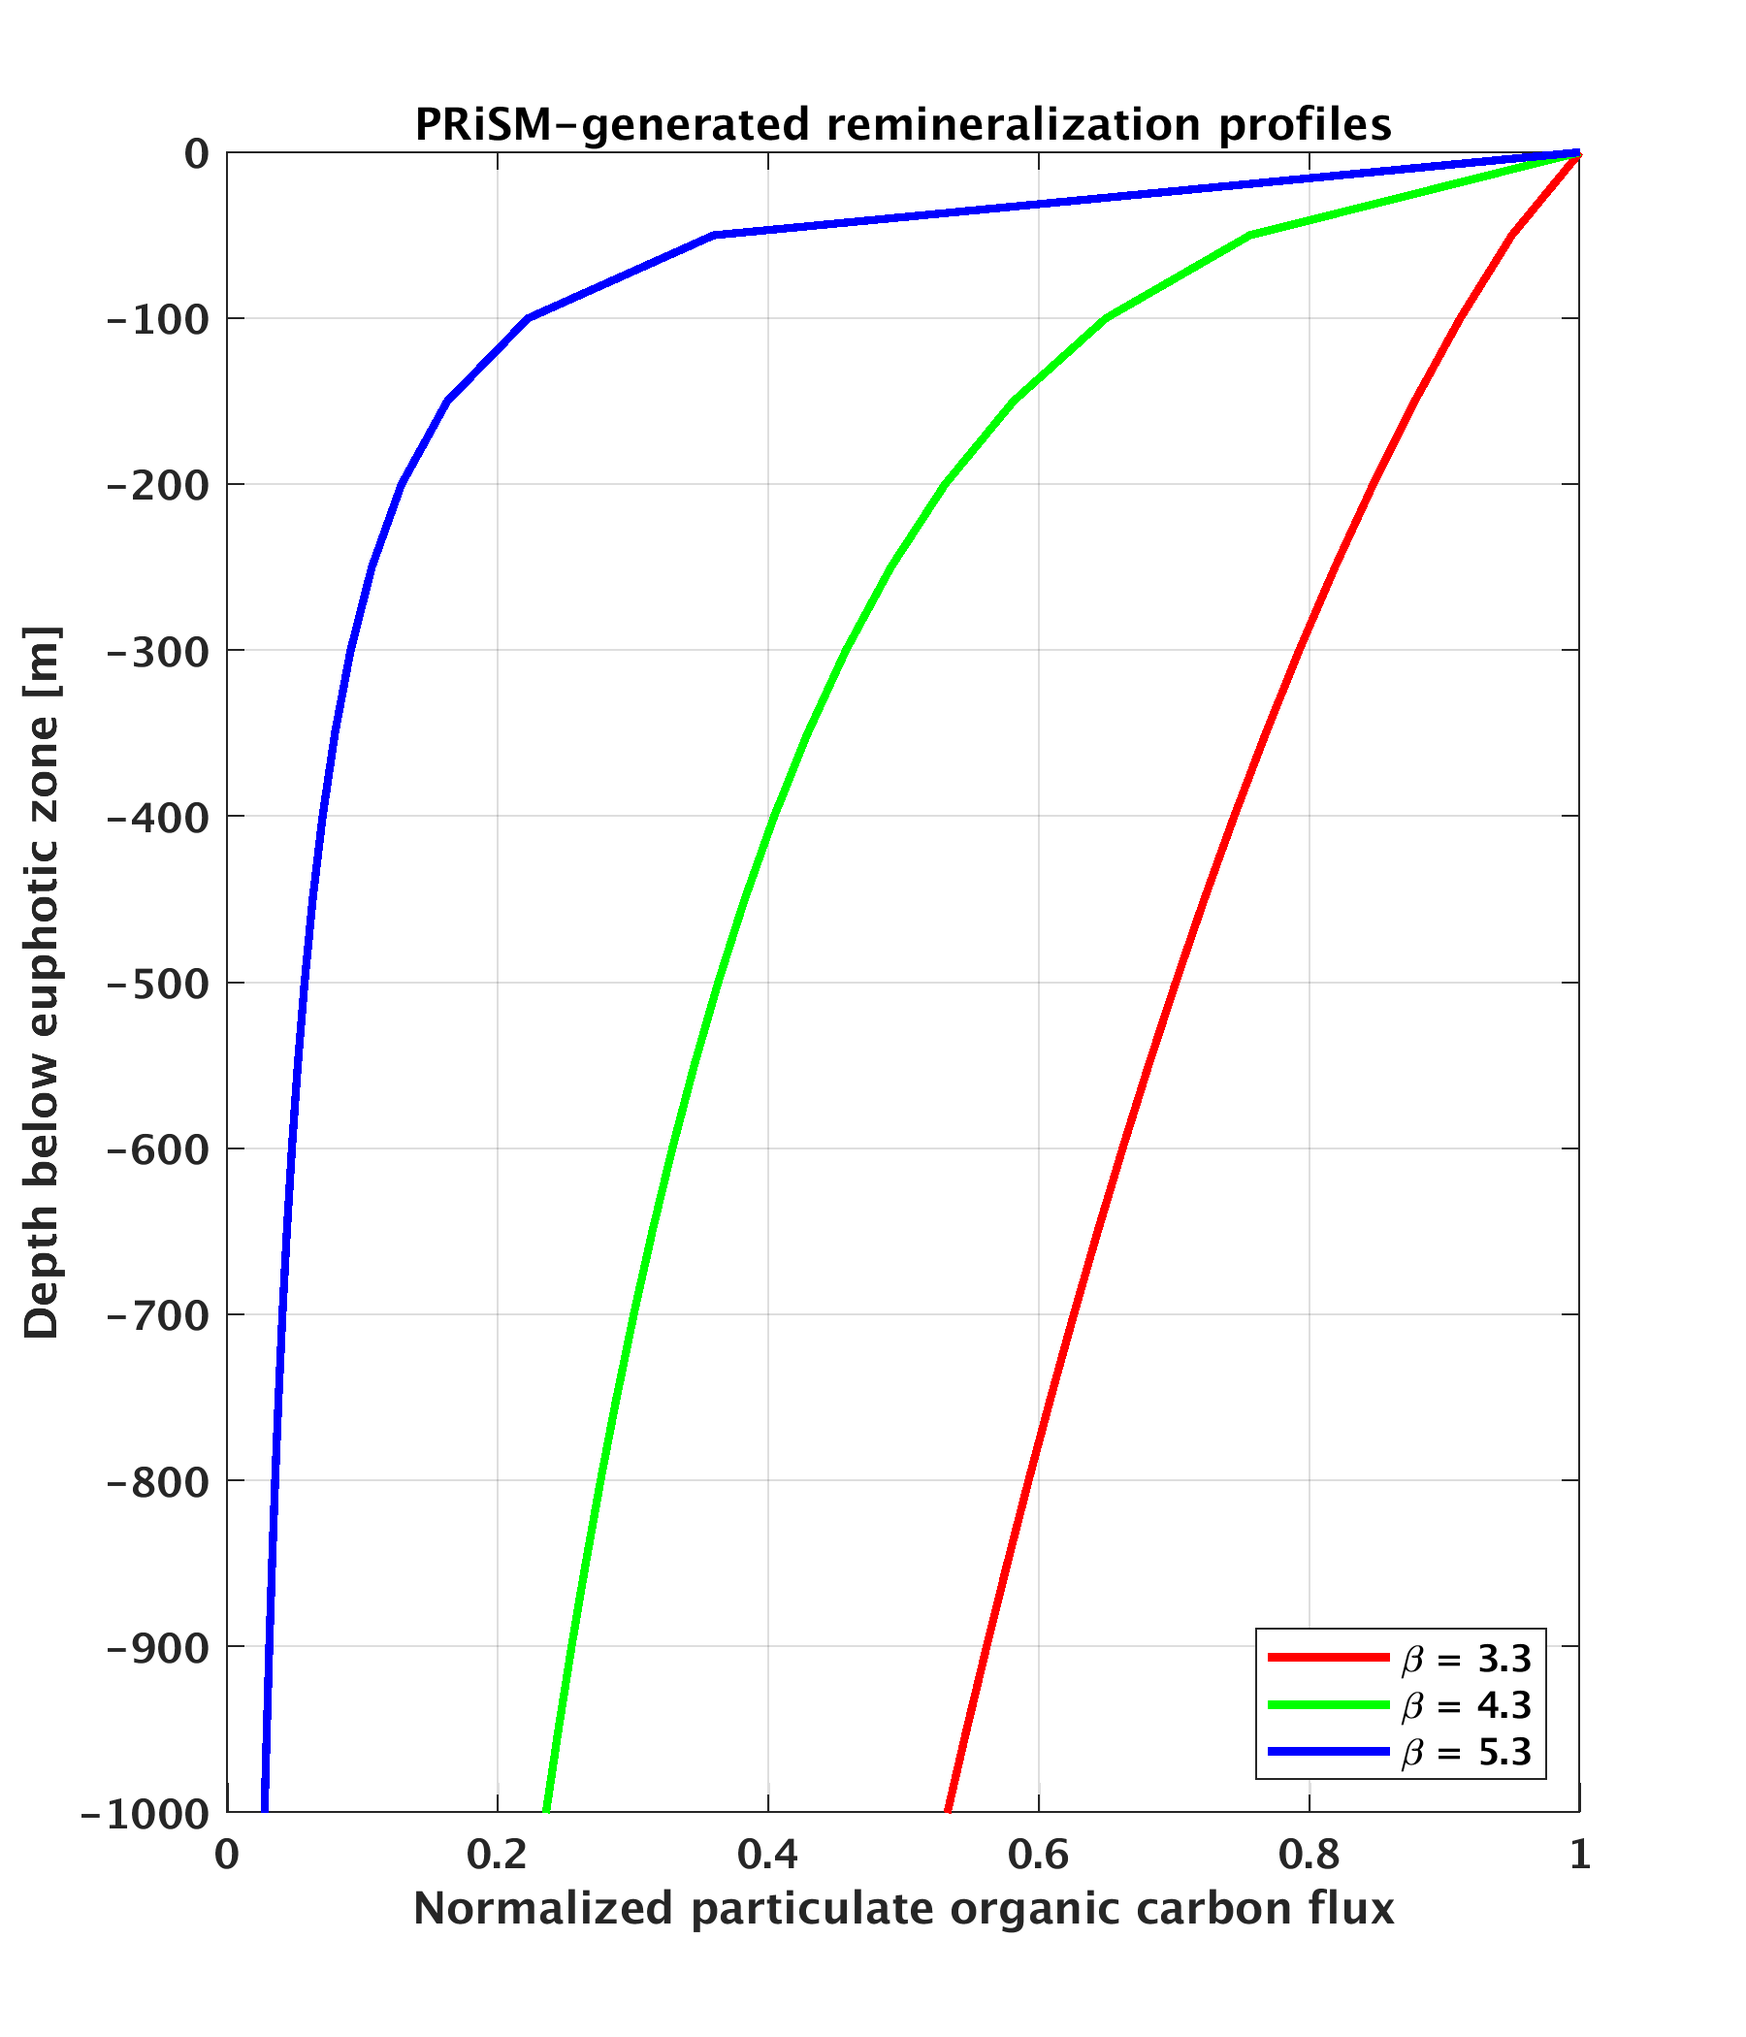
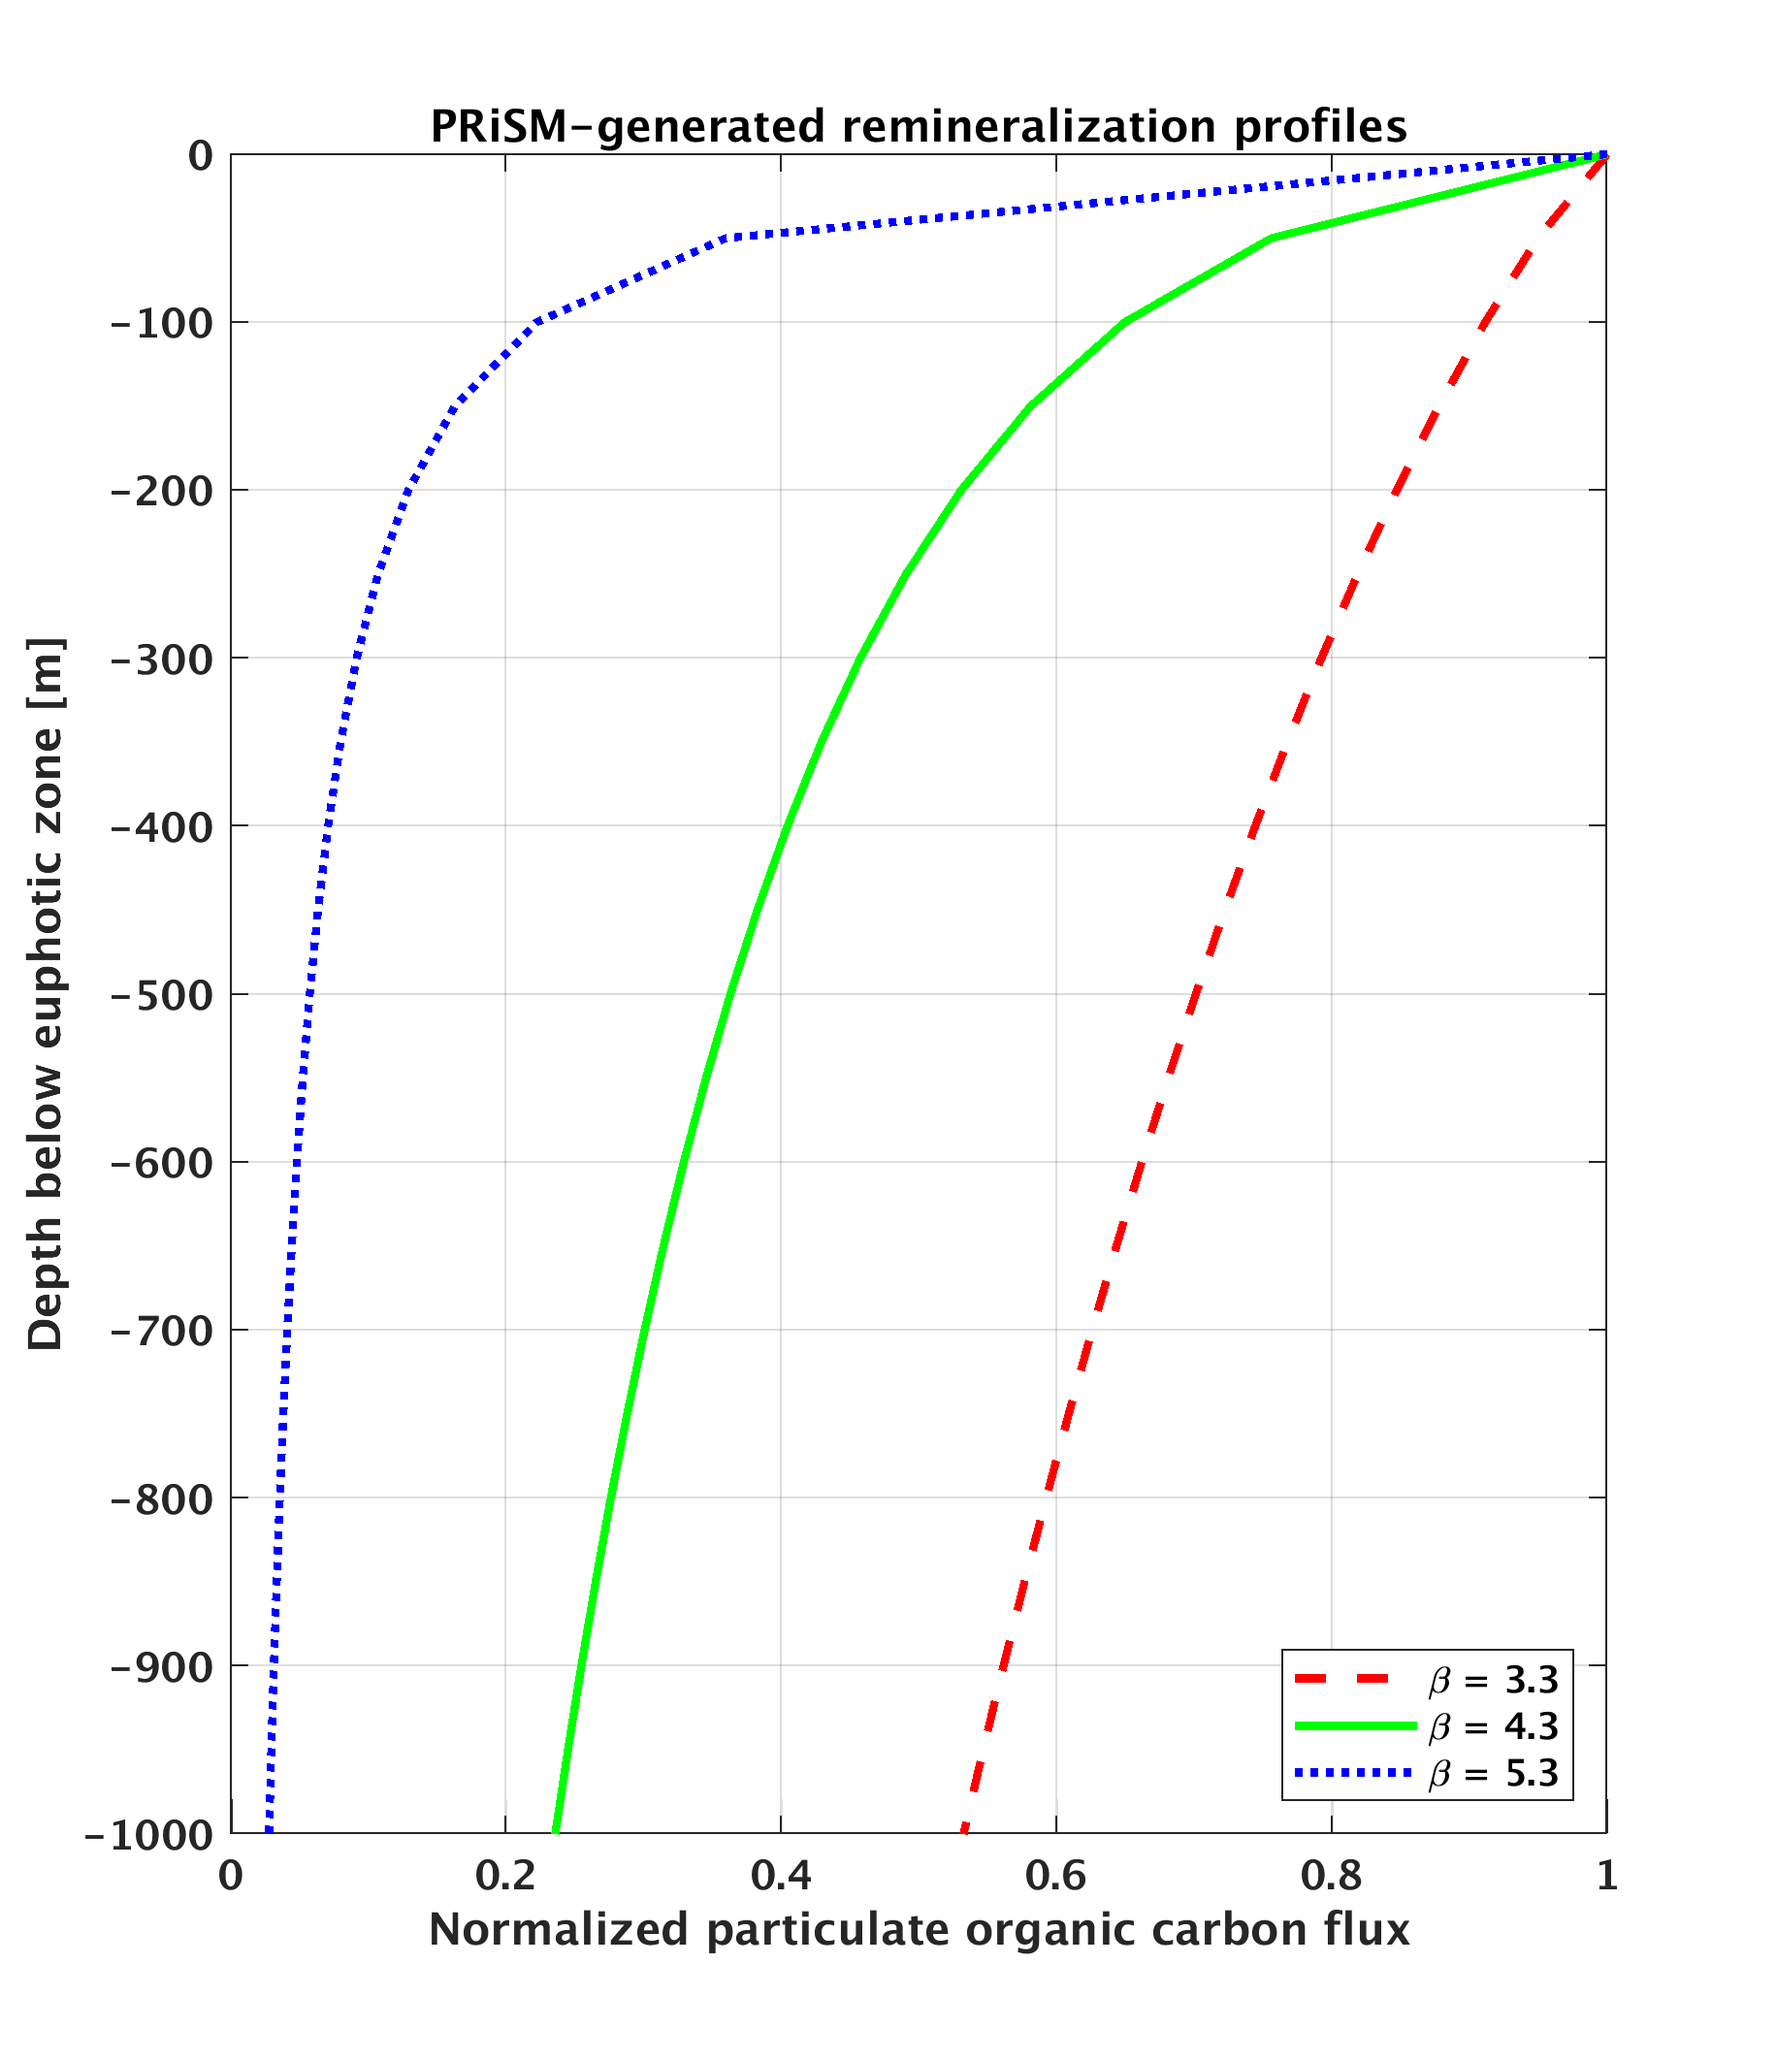
colorblind friendly supp fig 1

diff --git a/figure_code/suppfig1_fluxprofs.m b/figure_code/suppfig1_fluxprofs.m
@@ -55,11 +55,12 @@ f=figure;
 set(f,'color','white','units','inches',...
     'position', [0.5 0.5 6 7]);
 colorcell = {'r','g','b'};
-icolor = 1;
+linstycell = {'--','-',':'};
+iprof = 1;
 for idx=[find(epsilon==3.3) find(epsilon==4.3) find(epsilon==5.3)]
-    plot(Fcurves(:,idx),-z,'-','linewidth',2,'color',colorcell{icolor});
+    plot(Fcurves(:,idx),-z,linstycell{iprof},'linewidth',2,'color',colorcell{iprof});
     hold on;grid on;
-    icolor=icolor+1;
+    iprof=iprof+1;
 end
 %plot(((z+100)./100).^-0.858,-z,'k-','linewidth',2);
 %legend('\beta = 3.3','\beta = 4.3','\beta = 5.3','Martin Curve');
